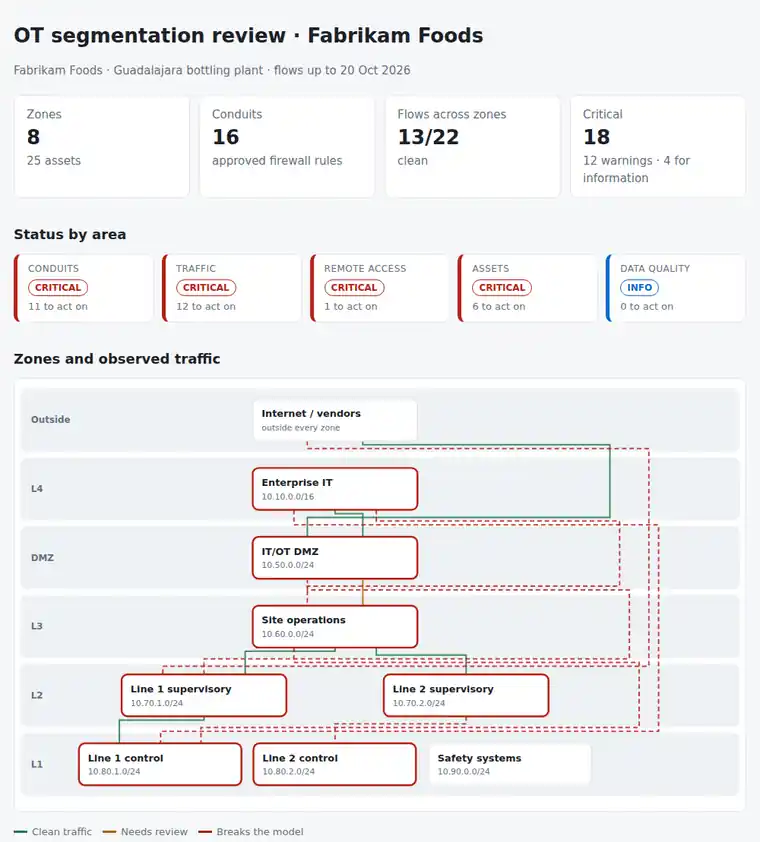
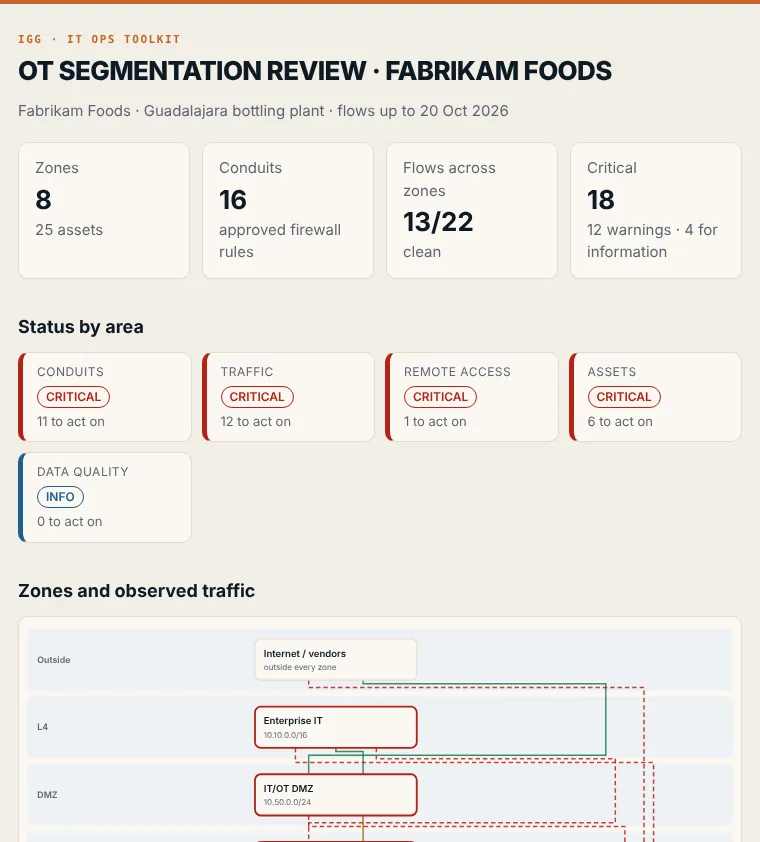
Report: IGG colours (paper, ink and the orange accent) and a new screenshot

diff --git a/otseg/report.py b/otseg/report.py
@@ -86,9 +86,9 @@ def review_md(site: Site, findings: list[Finding], rows: list[dict]) -> str:
 
 
 CSS = """
-:root{--bg:#f6f7f8;--card:#fff;--ink:#1b2128;--muted:#66717c;--line:#e2e5e9;--ok:#1e7a4c;--warn:#a46200;--bad:#b42318;--info:#0b6bcb;--na:#8a94a0;--band:#eef1f4}
-@media (prefers-color-scheme:dark){:root{--bg:#13171b;--card:#1b2127;--ink:#e7eaee;--muted:#9aa5b0;--line:#2b333b;--ok:#4cc38a;--warn:#f0a83a;--bad:#f2685c;--info:#5aa9f0;--na:#6d7782;--band:#20272e}}
-*{box-sizing:border-box}body{margin:0;background:var(--bg);color:var(--ink);font:15px/1.5 system-ui,-apple-system,Segoe UI,sans-serif}
+:root{--bg:#f2eee6;--card:#fbf8f3;--ink:#0e1a24;--muted:#5d6670;--line:#e2dccf;--ok:#1e7a4c;--warn:#a46200;--bad:#b42318;--info:#1f5f8b;--na:#8a94a0;--band:#eef1f4}
+@media (prefers-color-scheme:dark){:root{--bg:#0e1a24;--card:#142331;--ink:#f2eee6;--muted:#a9b3bb;--line:#24364a;--ok:#4cc38a;--warn:#f0a83a;--bad:#f2685c;--info:#5aa9f0;--na:#6d7782;--band:#20272e}}
+*{box-sizing:border-box}body{border-top:4px solid #c4672b}h1{font-weight:800;letter-spacing:-.025em;text-transform:uppercase;line-height:1.05}h1::before{content:"IGG · IT Ops toolkit";display:block;font:600 11px/1.4 ui-monospace,SFMono-Regular,Menlo,monospace;letter-spacing:.14em;text-transform:uppercase;color:#c4672b;margin-bottom:10px}body{margin:0;background:var(--bg);color:var(--ink);font:15px/1.5 system-ui,-apple-system,Segoe UI,sans-serif}
 main{max-width:1100px;margin:0 auto;padding:28px 18px 60px}h1{font-size:26px;margin:0 0 4px}h2{font-size:18px;margin:34px 0 12px}
 .muted{color:var(--muted)}.tiles{display:grid;grid-template-columns:repeat(auto-fit,minmax(150px,1fr));gap:12px;margin-top:20px}
 .tile{background:var(--card);border:1px solid var(--line);border-radius:10px;padding:14px 16px}.tile b{display:block;font-size:26px}
